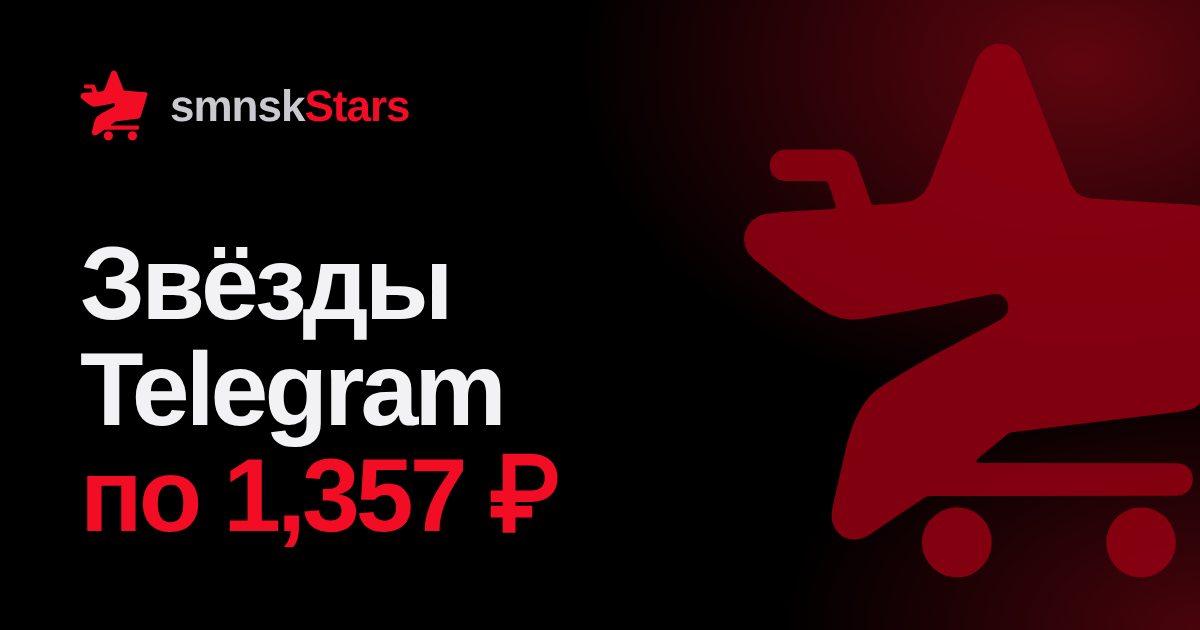
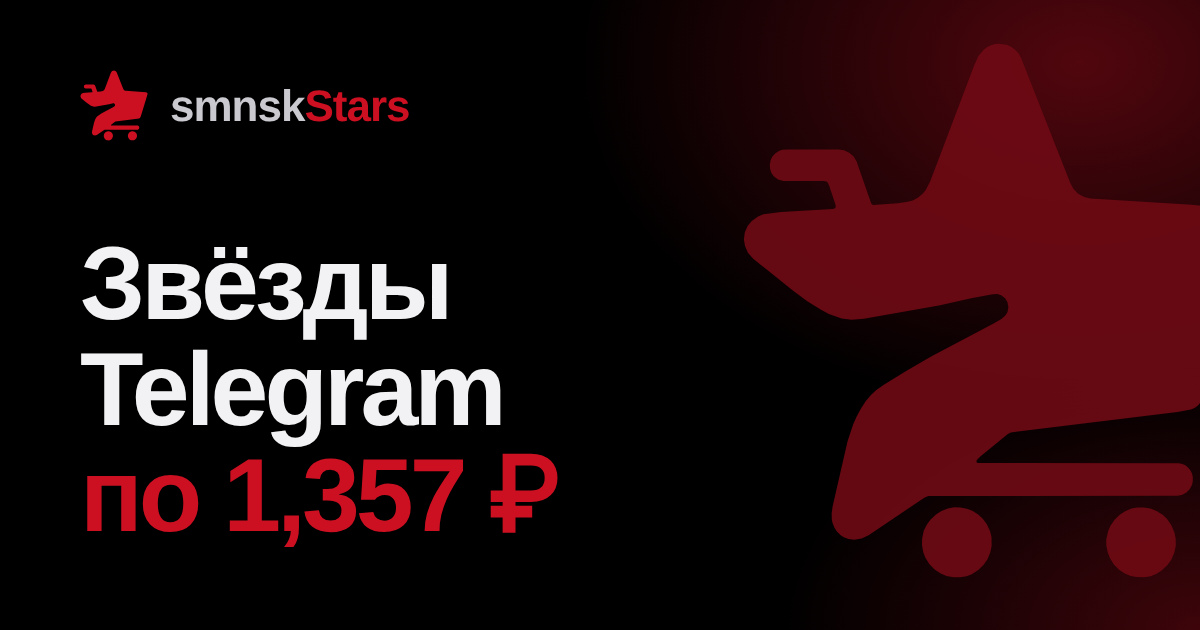
Add files via upload

diff --git a/smnskstars.html b/smnskstars.html
@@ -26,7 +26,7 @@
 :root{
   color-scheme:dark;
   --bg:#000;--glass:rgba(255,255,255,.035);--line:rgba(255,255,255,.09);
-  --text:#F2F2F4;--muted:#85858F;--red:#F20D24;--red2:#FF3B4D;--err:#FF6B6B;
+  --text:#F2F2F4;--muted:#85858F;--red:#CC1022;--red2:#E01A2D;--err:#FF6B6B;
   --display:'Unbounded','Onest',system-ui,sans-serif;--body:'Onest',system-ui,-apple-system,'Segoe UI',sans-serif;
   --ease:cubic-bezier(.2,.8,.2,1);
   box-sizing:border-box;padding-top:env(safe-area-inset-top,0px);padding-bottom:env(safe-area-inset-bottom,0px);
@@ -70,8 +70,8 @@ h1 .r{color:var(--red);-webkit-text-stroke:.12em #000;paint-order:stroke fill}
 .fig .fb{display:none;width:100%;height:100%}
 .fig.nogl .fb{display:block}
 .hero .wrap{z-index:1}
-.glow{position:absolute;inset:0;pointer-events:none;background:radial-gradient(60% 50% at 85% 20%,rgba(242,13,36,.22),transparent 70%),radial-gradient(50% 40% at 100% 100%,rgba(242,13,36,.18),transparent 70%)}
-.streak{position:absolute;pointer-events:none;right:-30%;bottom:16%;width:110%;height:2px;background:linear-gradient(90deg,transparent,var(--red) 55%,rgba(255,120,130,.9) 85%,transparent);transform:rotate(-9deg);transform-origin:right;box-shadow:0 0 36px 5px rgba(242,13,36,.5)}
+.glow{position:absolute;inset:0;pointer-events:none;background:radial-gradient(60% 50% at 85% 20%,rgba(204,16,34,.22),transparent 70%),radial-gradient(50% 40% at 100% 100%,rgba(204,16,34,.18),transparent 70%)}
+.streak{position:absolute;pointer-events:none;right:-30%;bottom:16%;width:110%;height:2px;background:linear-gradient(90deg,transparent,var(--red) 55%,rgba(255,120,130,.9) 85%,transparent);transform:rotate(-9deg);transform-origin:right;box-shadow:0 0 36px 5px rgba(204,16,34,.5)}
 
 /* Statement */
 .band{padding:48px 0 4px}
@@ -90,7 +90,7 @@ label,.lbl{display:block;font-size:13px;color:var(--muted);margin-bottom:8px}
 .field{position:relative;margin-bottom:14px}
 .field input{width:100%;height:50px;background:#000;border:1px solid var(--line);border-radius:16px;color:var(--text);font:500 16px var(--body);padding:0 18px;transition:border-color .2s,box-shadow .2s}
 .field input::placeholder{color:#4a4a54}
-.field input:focus{outline:none;border-color:var(--red);box-shadow:0 0 0 4px rgba(242,13,36,.16)}
+.field input:focus{outline:none;border-color:var(--red);box-shadow:0 0 0 4px rgba(204,16,34,.16)}
 .ip{position:relative}
 .at .ip input{padding-left:40px}
 .at .ip::before{content:'@';position:absolute;left:18px;top:50%;transform:translateY(-50%);color:var(--muted);font:500 17px/1 var(--body);z-index:1;pointer-events:none}
@@ -101,16 +101,16 @@ label,.lbl{display:block;font-size:13px;color:var(--muted);margin-bottom:8px}
 .chip{height:46px;border-radius:14px;border:1px solid var(--line);background:#000;color:var(--text);font:500 14px var(--body);cursor:pointer;transition:border-color .2s,background .2s,color .2s,transform .15s}
 .chip:hover{border-color:rgba(255,255,255,.25)}
 .chip:active{transform:scale(.95)}
-.chip[aria-pressed="true"]{border-color:var(--red);background:var(--red);color:#000;font-weight:600}
+.chip[aria-pressed="true"]{border-color:var(--red);background:var(--red);color:#fff;font-weight:600}
 .qty{margin-bottom:10px}.qty input{height:46px}
 .sum{display:flex;justify-content:space-between;align-items:flex-end;gap:16px;padding:14px 0 18px;border-top:1px solid var(--line)}
 .sum small{display:block;color:var(--muted);font-size:13px;margin-bottom:6px}
 .get{display:flex;align-items:center;gap:10px;font:700 32px/1 var(--display);letter-spacing:-.05em;font-variant-numeric:tabular-nums}
 .get svg{width:28px;height:28px;color:var(--red);transition:transform .5s var(--ease)}
-.get.pop svg{transform:rotate(72deg) scale(1.2)}
+.get.pop svg{transform:scale(1.25) rotate(-14deg)}
 .pay{text-align:right;font:500 20px var(--display);letter-spacing:-.03em;font-variant-numeric:tabular-nums}
-.btn{width:100%;height:56px;border:0;border-radius:999px;background:var(--red);color:#000;font:700 17px var(--body);cursor:pointer;display:flex;align-items:center;justify-content:center;gap:12px;transition:transform .15s,box-shadow .3s,background .2s;box-shadow:0 12px 40px -12px rgba(242,13,36,.8)}
-.btn:hover{background:var(--red2);box-shadow:0 16px 50px -12px rgba(242,13,36,1)}
+.btn{width:100%;height:56px;border:0;border-radius:999px;background:var(--red);color:#fff;font:700 17px var(--body);cursor:pointer;display:flex;align-items:center;justify-content:center;gap:12px;transition:transform .15s,box-shadow .3s,background .2s;box-shadow:0 12px 40px -12px rgba(204,16,34,.8)}
+@media(hover:hover){.btn:hover{background:var(--red2);box-shadow:0 16px 50px -12px rgba(204,16,34,1)}}
 .btn:active{transform:scale(.98)}
 .btn[disabled]{opacity:.7;cursor:wait}
 .btn svg{width:20px;height:20px}
@@ -135,9 +135,9 @@ footer .wrap{display:flex;justify-content:space-between;gap:16px;flex-wrap:wrap}
 
 .bot{text-decoration:none;color:var(--text);transition:color .2s}.bot:hover{color:var(--red2)}
 .vpnwrap{display:flex;justify-content:center;padding:6px 22px calc(28px + env(safe-area-inset-bottom,0px))}
-.vpn{display:inline-flex;align-items:center;gap:8px;white-space:nowrap;padding:8px 15px 8px 12px;border-radius:999px;border:1px solid rgba(242,13,36,.45);color:var(--muted);text-decoration:none;font:600 12px/1 var(--display);letter-spacing:-.02em;opacity:0;transform:translateY(16px);transition:opacity .9s var(--ease),transform .9s var(--ease),box-shadow .9s,color .3s}
+.vpn{display:inline-flex;align-items:center;gap:8px;white-space:nowrap;padding:8px 15px 8px 12px;border-radius:999px;border:1px solid rgba(204,16,34,.45);color:var(--muted);text-decoration:none;font:600 12px/1 var(--display);letter-spacing:-.02em;opacity:0;transform:translateY(16px);transition:opacity .9s var(--ease),transform .9s var(--ease),box-shadow .9s,color .3s}
 .vpn svg{width:14px;height:15px;color:var(--red)}
-.vpn.on{opacity:1;transform:none;box-shadow:0 0 30px -8px rgba(242,13,36,.75)}
+.vpn.on{opacity:1;transform:none;box-shadow:0 0 30px -8px rgba(204,16,34,.75)}
 .vpn:hover{color:var(--text)}
 /* Modal */
 .modal{position:fixed;inset:0;z-index:30;display:none;place-items:center;padding:20px;background:rgba(0,0,0,.78);backdrop-filter:blur(10px)}
@@ -181,7 +181,7 @@ h1 span:nth-child(2) i{animation-delay:.1s}h1 span:nth-child(3) i{animation-dela
 </head>
 <body>
 <svg width="0" height="0" style="position:absolute" aria-hidden="true">
-  <symbol id="star" viewBox="0 0 24 24"><path fill="currentColor" d="M12 2l3.1 6.6 7.2.9-5.3 5 1.4 7.2L12 18l-6.4 3.7L7 14.5l-5.3-5 7.2-.9z"/></symbol>
+  <symbol id="star" viewBox="244 243 543 529"><path fill="currentColor" fill-rule="evenodd" d="M665.7 768.1 L657.9 767.6 L649.2 764.3 L529.4 689.1 L521.0 685.5 L516.0 684.7 L508.8 685.3 L500.3 688.8 L379.1 764.6 L371.7 767.1 L365.0 767.5 L357.6 765.9 L351.7 762.8 L345.7 756.8 L342.3 750.2 L340.8 742.9 L341.4 735.0 L362.0 651.5 L367.2 638.7 L374.6 626.1 L386.2 612.7 L400.7 601.2 L519.4 538.9 L522.6 536.1 L524.4 532.9 L525.2 528.9 L524.7 524.8 L523.0 521.4 L519.9 518.6 L516.4 517.1 L512.0 516.7 L384.8 536.1 L367.0 537.0 L350.5 535.0 L337.3 531.2 L329.5 528.0 L320.1 523.4 L311.5 518.0 L258.0 472.5 L252.7 466.8 L248.9 459.6 L247.8 449.1 L250.2 439.7 L253.4 434.9 L257.3 430.9 L261.6 428.1 L266.5 426.0 L280.6 424.0 L413.9 413.3 L421.7 411.2 L428.6 407.1 L433.3 401.8 L436.7 395.2 L490.5 262.0 L494.0 256.5 L498.0 252.5 L502.8 249.3 L507.9 247.4 L517.0 246.6 L524.9 248.6 L531.7 252.8 L537.6 259.9 L593.4 397.1 L597.1 403.4 L602.2 408.3 L608.0 411.5 L616.0 413.4 L747.6 424.0 L761.8 425.7 L768.4 428.1 L774.2 432.3 L778.2 437.3 L781.6 444.9 L782.4 451.0 L781.8 457.3 L778.5 465.0 L775.1 469.6 L665.4 565.9 L660.1 571.6 L656.7 578.2 L655.0 586.2 L655.9 594.6 L688.2 732.2 L689.5 741.0 L688.1 750.6 L683.0 759.5 L675.6 765.1Z"/></symbol>
   <symbol id="arr" viewBox="0 0 24 24"><path d="M7 17L17 7M8 7h9v9" fill="none" stroke="currentColor" stroke-width="2.4" stroke-linecap="round" stroke-linejoin="round"/></symbol>
   <symbol id="logo" viewBox="176 143 819 852"><path fill="currentColor" fill-rule="evenodd" d="M355.9 930.0 L346.8 928.7 L339.5 926.0 L334.5 923.0 L328.6 916.9 L324.6 910.9 L321.5 903.0 L320.5 897.0 L320.4 888.0 L321.9 877.4 L345.2 775.7 L354.1 748.6 L359.9 735.4 L367.0 722.5 L374.2 711.7 L381.9 702.4 L390.2 694.7 L402.5 686.0 L438.3 663.8 L477.7 641.2 L573.9 590.4 L587.8 582.3 L594.6 576.2 L597.2 571.7 L598.7 564.0 L597.3 556.2 L593.6 549.9 L587.4 545.1 L581.4 543.1 L573.9 543.3 L540.1 549.6 L491.3 560.8 L371.3 581.9 L352.0 583.7 L336.0 581.6 L316.0 574.5 L302.9 567.6 L282.6 554.9 L260.7 538.8 L196.8 487.6 L188.5 478.0 L183.9 467.6 L182.1 457.0 L183.5 446.0 L188.2 435.7 L194.6 428.1 L204.4 420.9 L212.9 417.4 L240.5 414.0 L321.8 409.1 L324.9 408.4 L326.7 406.5 L326.7 403.7 L324.4 396.1 L316.6 372.9 L314.5 368.0 L312.4 366.0 L307.0 365.1 L244.4 365.0 L235.9 362.6 L229.1 357.4 L225.3 352.2 L223.4 346.1 L223.0 339.3 L224.3 331.8 L227.0 326.5 L231.9 321.4 L237.3 317.8 L242.4 316.0 L252.0 315.3 L331.0 315.4 L339.7 316.7 L348.0 320.5 L355.0 326.6 L359.8 334.6 L382.0 398.5 L383.3 401.2 L385.5 402.8 L424.6 400.0 L440.1 397.7 L448.1 395.6 L456.6 391.1 L463.7 385.2 L468.6 379.2 L475.5 366.0 L544.5 184.0 L551.5 168.1 L560.3 157.8 L565.5 154.1 L571.7 151.1 L577.7 149.2 L583.0 148.7 L595.9 150.6 L602.9 153.7 L609.2 158.3 L614.6 163.9 L618.6 170.9 L696.2 368.3 L701.1 377.4 L708.5 385.0 L718.3 390.3 L728.0 392.6 L887.0 402.3 L968.1 410.3 L979.0 412.4 L984.2 415.3 L988.2 420.3 L989.3 426.9 L987.7 435.2 L973.1 486.6 L908.5 697.0 L903.2 711.7 L897.3 718.8 L892.6 722.1 L886.3 724.8 L865.2 728.8 L602.5 761.0 L597.9 763.4 L555.0 798.5 L549.0 804.5 L548.3 807.5 L550.4 809.0 L555.0 809.3 L867.0 809.5 L872.8 810.7 L877.6 812.9 L882.0 816.5 L885.6 820.9 L887.9 825.6 L889.2 831.2 L889.1 837.8 L888.0 843.5 L884.2 850.7 L879.2 855.7 L872.1 859.6 L865.0 860.8 L472.6 861.1 L466.3 863.8 L378.6 923.1 L367.6 928.1ZM522.6 989.1 L512.4 989.0 L501.2 987.3 L492.1 983.4 L482.5 977.0 L474.1 968.4 L468.0 958.5 L464.6 949.9 L462.6 938.0 L462.8 928.2 L465.4 915.9 L470.4 905.9 L475.9 898.4 L484.7 890.2 L493.2 884.7 L503.3 880.8 L513.4 879.0 L523.2 879.1 L533.4 881.1 L542.0 884.5 L551.2 890.4 L558.4 897.1 L564.8 905.7 L569.9 916.6 L572.2 926.1 L572.3 940.0 L570.3 949.8 L565.6 961.1 L559.5 970.0 L551.4 977.9 L541.0 984.5 L533.0 987.5ZM812.6 989.0 L800.8 988.9 L791.3 987.2 L782.1 983.4 L773.1 977.4 L765.2 969.3 L758.5 958.9 L755.0 949.5 L752.9 938.8 L752.9 929.3 L755.9 916.4 L759.5 908.1 L766.0 898.5 L774.1 890.6 L782.6 885.1 L792.5 881.0 L801.9 879.2 L812.2 879.1 L822.5 881.0 L831.9 884.6 L841.7 890.8 L848.4 897.1 L855.4 907.1 L860.4 919.1 L862.2 928.1 L862.3 939.9 L860.0 950.5 L855.5 961.0 L849.3 969.8 L840.1 978.6 L832.1 983.6 L822.9 987.4Z"/></symbol>
   <symbol id="shield" viewBox="436 422 380 405"><g transform="translate(0,1254) scale(.1,-.1)"><path fill="currentColor" d="M5905 8234 c-507 -50 -930 -183 -1293 -408 -99 -62 -144 -105 -166 -158 -23 -55 -24 -648 -1 -648 8 0 113 47 232 104 368 177 533 241 788 306 284 72 509 100 820 100 453 0 910 -95 1240 -256 101 -50 125 -82 125 -169 0 -81 -3 -85 -210 -281 -169 -159 -572 -547 -745 -714 -241 -235 -289 -276 -339 -290 -48 -13 -102 -8 -147 16 -23 12 -491 491 -853 874 -123 130 -171 165 -241 176 -57 8 -106 -7 -270 -82 -305 -141 -405 -194 -411 -218 -23 -92 103 -491 204 -650 18 -28 32 -54 32 -59 0 -13 121 -196 203 -307 245 -330 592 -675 973 -967 307 -235 350 -264 408 -270 53 -6 123 24 201 88 28 22 77 59 110 82 33 22 92 67 130 98 181 148 235 192 295 242 78 65 333 318 445 443 323 357 553 760 643 1124 l25 105 4 554 c5 620 6 605 -65 673 -146 143 -603 346 -946 422 -351 78 -825 106 -1191 70z"/></g></symbol>
@@ -198,7 +198,7 @@ h1 span:nth-child(2) i{animation-delay:.1s}h1 span:nth-child(3) i{animation-dela
 <main>
   <div class="hero" id="top">
     <div class="glow"></div><div class="streak"></div>
-    <div class="fig" id="fig" aria-hidden="true"><svg class="fb" viewBox="0 0 24 24"><defs><linearGradient id="g" x1="0" y1="0" x2="1" y2="1"><stop offset="0" stop-color="#FF3B4D"/><stop offset="1" stop-color="#8A0010"/></linearGradient></defs><path fill="url(#g)" stroke-linejoin="round" stroke="#F20D24" stroke-width="1.6" d="M12 2l3.1 6.6 7.2.9-5.3 5 1.4 7.2L12 18l-6.4 3.7L7 14.5l-5.3-5 7.2-.9z"/></svg></div>
+    <div class="fig" id="fig" aria-hidden="true"><svg class="fb" viewBox="0 0 24 24"><defs><linearGradient id="g" x1="0" y1="0" x2="1" y2="1"><stop offset="0" stop-color="#FF3B4D"/><stop offset="1" stop-color="#8A0010"/></linearGradient></defs><path fill="url(#g)" stroke-linejoin="round" stroke="#CC1022" stroke-width="1.6" d="M12 2l3.1 6.6 7.2.9-5.3 5 1.4 7.2L12 18l-6.4 3.7L7 14.5l-5.3-5 7.2-.9z"/></svg></div>
     <div class="wrap">
       <h1><span><i>Звёзды</i></span><span><i>Telegram</i></span><span><i class="r">по 1,357 <b class="rub">₽</b></i></span></h1>
       <p class="lead">Пополните баланс звёзд за пару минут. Пароль не нужен.</p>
